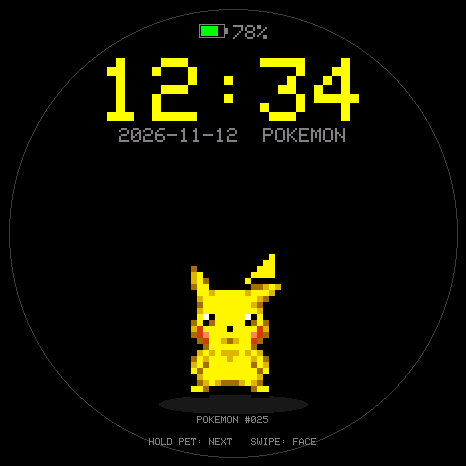
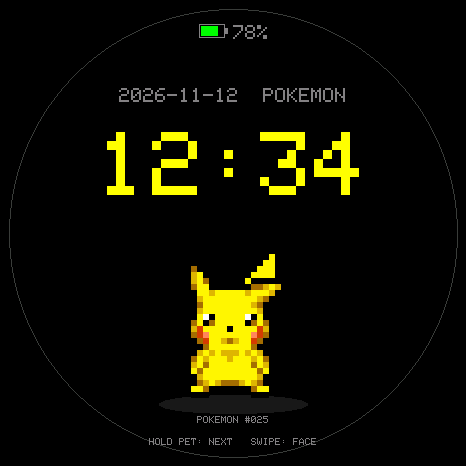
TamaClock: date above the dial, clock closer to centre
Creature faces now put date + face name at y88 and the big time at y132 so the clock reads as the centre of the layout; sprite scale is capped to the shorter space. Previews regenerated from the real packs.

Changed region(s): [[0.2103, 0.1202, 0.5107, 0.4206], [0.5408, 0.1202, 0.7811, 0.4206]]

diff --git a/apps/TamaClock/monsprite.h b/apps/TamaClock/monsprite.h
@@ -172,9 +172,9 @@ struct MonsPack {
     // transparent padding does not shrink the creature.
     const PmdAct &ref = acts[PMD_IDLE].frames ? acts[PMD_IDLE] : a;
     const uint8_t span = (ref.base > ref.top) ? (uint8_t)(ref.base - ref.top) : ref.h;
-    uint8_t s = span ? (uint8_t)((235 + span / 2) / span) : 3;
+    uint8_t s = span ? (uint8_t)((185 + span / 2) / span) : 3;
     if (s < 2) s = 2;
-    while (s > 1 && (a.w * s > 400 || span * s > 245)) s--;
+    while (s > 1 && (a.w * s > 400 || span * s > 190)) s--;
     if (s > maxScale) s = maxScale;
 
     const uint8_t fi = frameAt(a, t);

diff --git a/docs/CLOCK.md b/docs/CLOCK.md
@@ -67,9 +67,9 @@ So if the game shows a sprite, the clock shows the same sprite. Shiny files
   built-in `scenes::poke/digi` drawing plays and the row reads
   `NO SPRITES ON SD`. The clock never shows an empty hole.
 
-Layout: time y 58 (size 9), date + face name y 128 (size 2), battery at y 24,
-shadow line at y 398, `POKEMON #025` / `DIGIMON #003` label y 416, hint
-`HOLD PET: NEXT   SWIPE: FACE` y 438 (all size 1). See
+Layout: date + face name y 88 (size 2) above the dial, time y 132 (size 9),
+battery at y 24, shadow line at y 398, `POKEMON #025` / `DIGIMON #003` label
+y 416, hint `HOLD PET: NEXT   SWIPE: FACE` y 438 (all size 1). See
 `tools/render_clock_preview.py`, which decodes the real TPK2 files and draws
 the same coordinates with the Arduino_GFX 5×7 font. Its output lives in
 `docs/preview/`.
